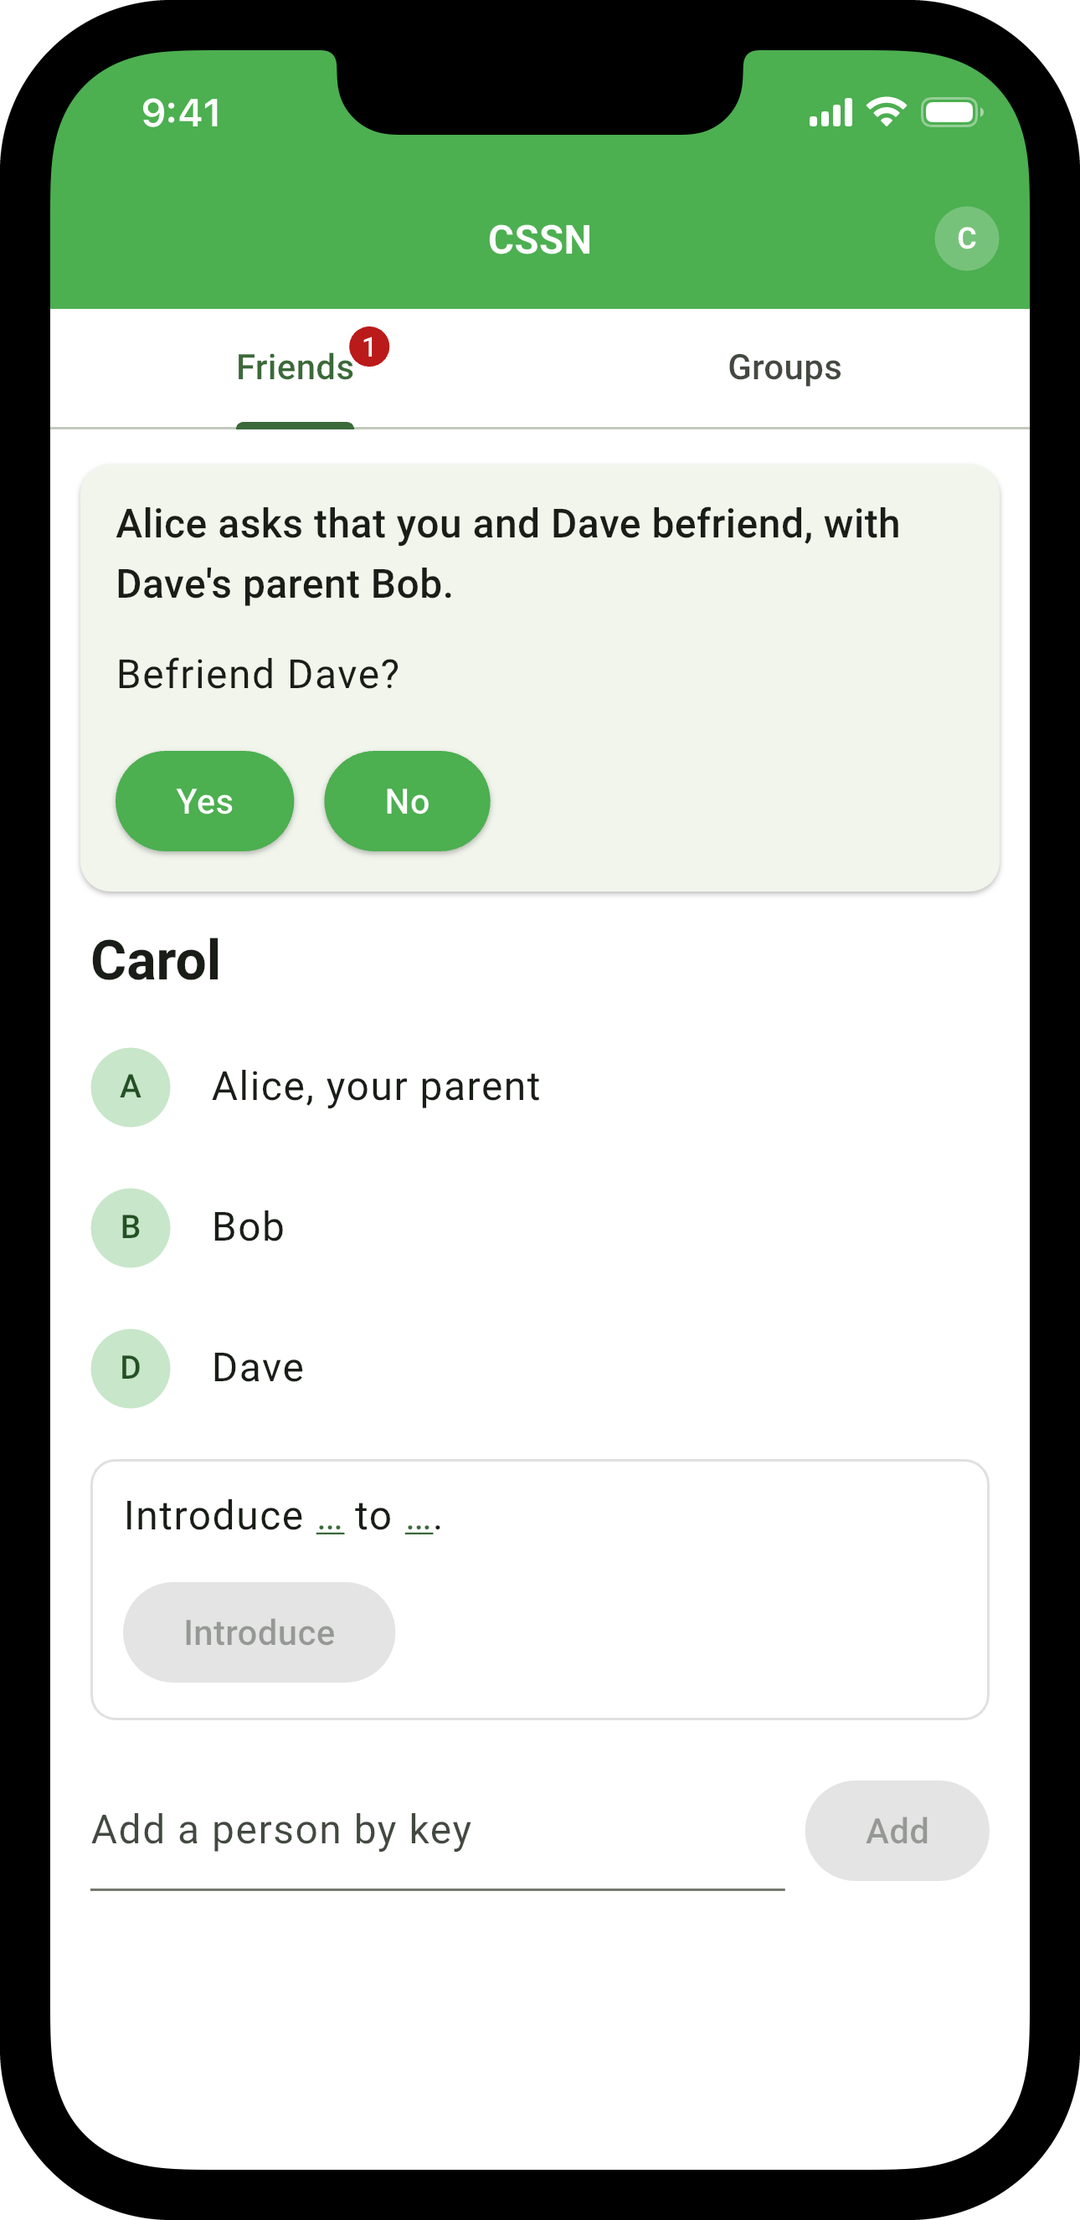
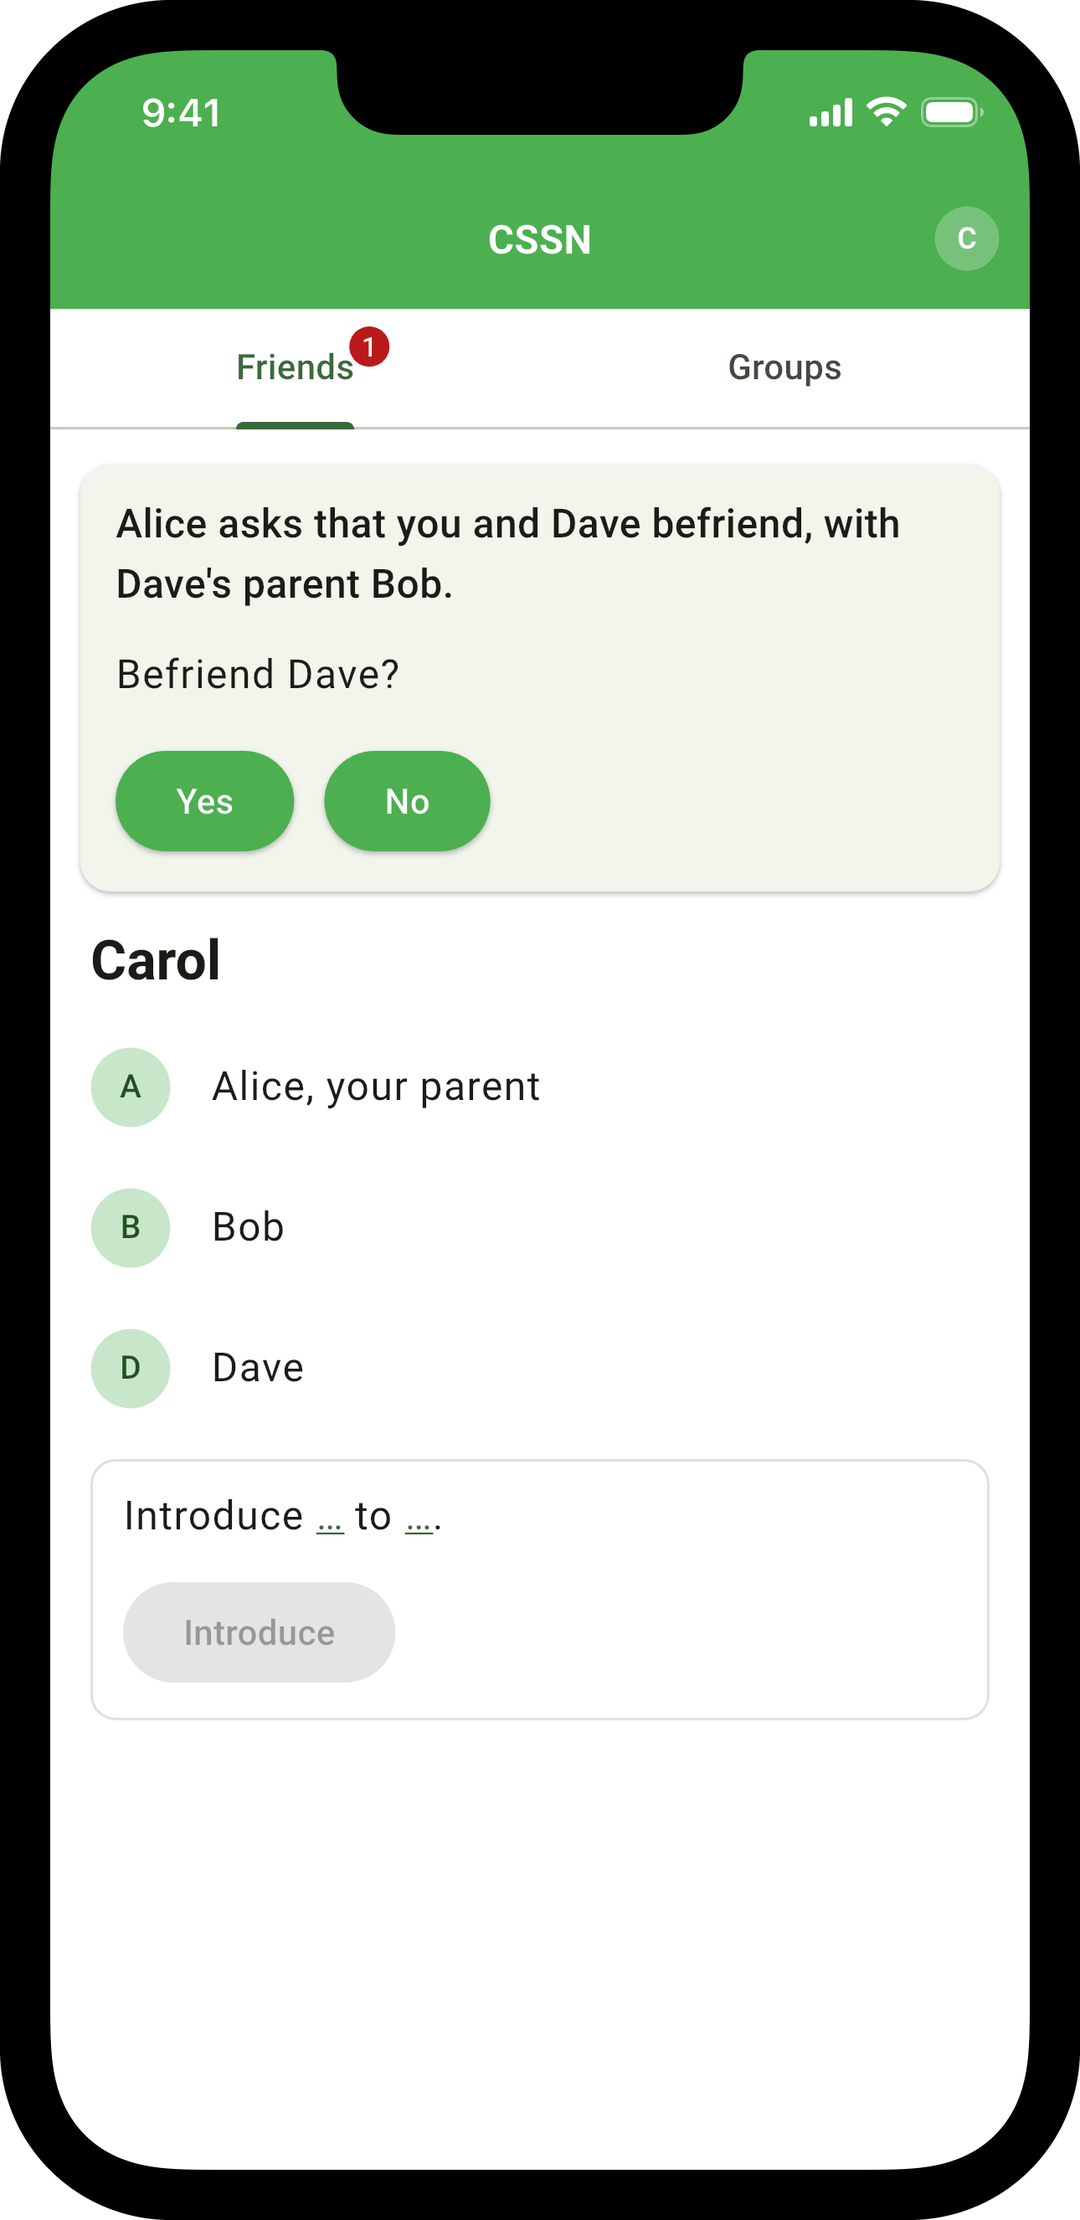
cssn: Figure 3 re-taken on the iPhone 16e simulator (tool/sim_screens.sh): screen (5), Carol's menu, without the field Add a person by key (CSSN #9 Cowork, Code_inbox 2026-10-20 22:04 UTC, item 2), and screen (4), Carol's Friends tab, without it too, it being a child's screen; screens (1), (2), (3) 

Changed region(s): [[0.7333, 0.777, 0.9167, 0.8703], [0.0917, 0.8081, 0.4278, 0.8392]]

diff --git a/programs/cssn/figures/README.md b/programs/cssn/figures/README.md
@@ -30,5 +30,5 @@ The script plays on the simulator the scenario of `glp_multiagent/test/apps_scre
 | `cssn-app-2.png` | (2) The same screen after Carol and Dave meet, as Alice composes her request: "You asked that Carol and Dave meet, with Bob." over a fresh "Ask that … and … meet, with ….", and "Ask that Carol and Dave befriend, with Bob." and Submit, which proposes `child_befriend(carol, dave, alice, bob)`. |
 | `cssn-app-3.png` | (3) Bob's Friends tab, badged: "Alice asks that their child Carol and your child Dave befriend.", "Approve?", Yes and No at its top; under it "Dave, your child", "Alice, your friend" with End friendship, and "Carol" with Meet, and his requests. |
 | `cssn-app-4.png` | (4) Carol's Friends tab, badged: "Alice asks that you and Dave befriend, with Dave's parent Bob.", "Befriend Dave?", Yes and No at its top; under it "Alice, your parent", "Bob" and "Dave", and "Introduce … to …." with Introduce. |
-| `cssn-app-5.png` | (5) Carol's menu while Dave is her friend: "Alice, your parent", "Dave, your friend" with End friendship, and "Bob", whom Alice's agent introduced to hers; "Introduce … to …." with Introduce, the one request a child's state allows; and Add a person by key. |
+| `cssn-app-5.png` | (5) Carol's menu while Dave is her friend: "Alice, your parent", "Dave, your friend" with End friendship, and "Bob", whom Alice's agent introduced to hers; "Introduce … to …." with Introduce, the one request a child's state allows; and no field Add a person by key, a child's agent discovering only its parents' agents, at the setup of the child's phone (CSSN, Section 4.6.2 and Appendix C.4). |
 | `cssn-app-6.png` | (6) Bob's menu as he composes his request, after Carol ends her friendship with Dave: "Declare Dave of age." and Submit, which proposes `of_age(bob, dave)`; nobody is asked, and once sent, "Dave is of age." |
